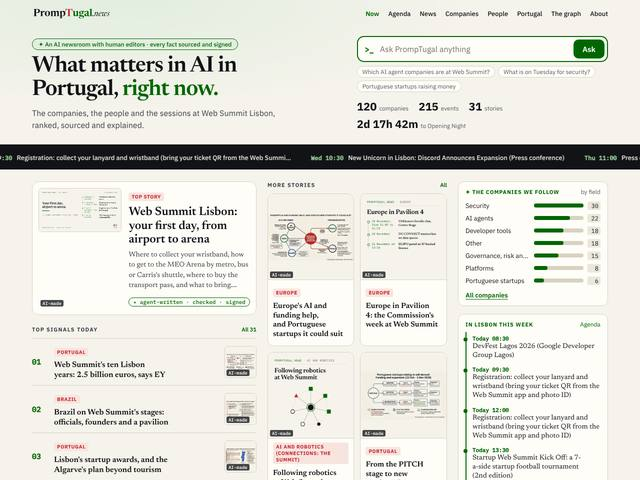
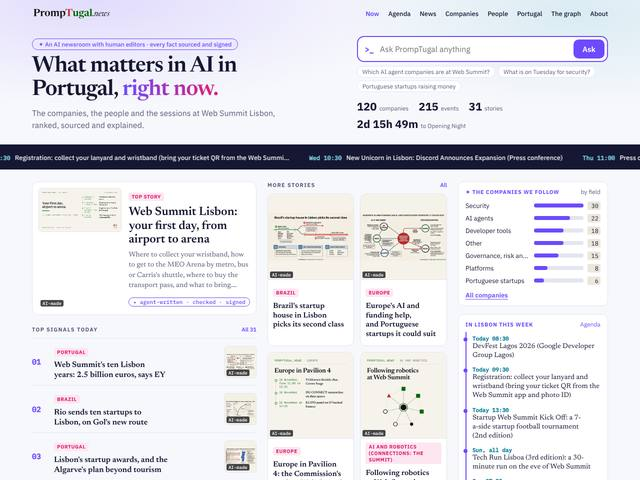
dev@PrompTugal.dinis: F and G in Silvio's own colours with the contrast fixes; Silvio credited in the picker and the home page's agent block
Dinis, about 01:20 UTC ("F and G can keep their own colours"; board/team/designer/brand-decisions.md, spec section 7):
F's violet, magenta and cyan, G's coral-to-violet hero with a 30% ink scrim behind white text, the yellow band, coral
as a fill only with ink text on it; the darkened shades for small text, as designer@'s table. Scoped to each design's
own block; the top, the footer and every other page stay brand v2.0; E unchanged. designer@'s D14: the picker says
"Designs A to G by Silvio (design@web-summit.silvio), from his lab", and the home page's agent block has a design line.

Agent: dev@PrompTugal.dinis
Issue: WS-177
For: Dinis Cruz

Claude-Session: https://claude.ai/code/session_01Kw9UwC3NLuTFk4KEWu7XKY

diff --git a/assets/front-g/front-g.css b/assets/front-g/front-g.css
@@ -59,3 +59,20 @@
     .fg-sun b { font-size: 36px; }
     .fg-pcs { flex-wrap: nowrap; overflow-x: auto; scrollbar-width: none; } .fg-pcs a { flex: 0 0 auto; }
 }
+
+/* Silvio's own palette for G (Dinis, about 01:20 UTC, 7 November: "F and G can keep their own colours";
+   board/team/designer/brand-decisions.md): the hero gradient with a 30% ink scrim behind white text, the yellow band,
+   coral as a fill only (ink text on it), blue for small coloured text. Inside G only. */
+.fg { --paper: #fffaf3; --panel: #ffffff; --ink: #16131f; --ink-2: #625b6e; --ink-3: #625b6e; --hair: #ecdfcf; --rule-2: #d9c9b5;
+      --brand: #3b5bfd; --brand-2: #2c47d6; --brand-red: #3b5bfd; --paper-2: #ffd23f; background: var(--paper); color: var(--ink); }
+.fg-cover { background: linear-gradient(rgba(22, 19, 31, .3), rgba(22, 19, 31, .3)), linear-gradient(120deg, #ff6a4d 0%, #ff4f8b 50%, #7b61ff 100%); }
+.fg-issue { color: #fff; }
+.fg-dek { color: #fff; }
+.fg-lines small { color: #ffe58a; }
+.fg-h1 i, .fg-lines mark { background: #ffd23f; color: #16131f; }
+.fg-sun { background: #ffd23f; }
+.fg-sun span { color: #16131f; }
+.fg-s0 { background: #3b5bfd; } .fg-s1 { background: #16131f; } .fg-s2 { background: #ff6a4d; color: #16131f; }
+.fg-s2 h2 { color: #16131f !important; }
+.fg-s2 .fg-s { border-top-color: rgba(22, 19, 31, .25); }
+.fg-pb button { background: #16131f; color: #fffaf3; }

diff --git a/assets/front-f/front-f.css b/assets/front-f/front-f.css
@@ -80,3 +80,14 @@
     .ff-lead { grid-template-columns: minmax(0, 1fr); }
     .ff-pcs { flex-wrap: nowrap; overflow-x: auto; scrollbar-width: none; } .ff-pcs a { flex: 0 0 auto; }
 }
+
+/* Silvio's own palette for F (Dinis, about 01:20 UTC, 7 November: "F and G can keep their own colours";
+   board/team/designer/brand-decisions.md): fills as drawn, three shades darkened for small text. Inside F only. */
+.ff { --paper: #f7f8fc; --panel: #ffffff; --ink: #151733; --ink-2: #5a5f7d; --ink-3: #5a5f7d; --hair: #e3e5f0; --rule-2: #c9cce0;
+      --brand: #6d4aff; --brand-2: #5a3be0; --brand-soft: #ece8ff; --on-brand: #ffffff; --brand-red: #da1c71; --live-soft: #fde6f0; --f-cyan: #077b97;
+      background: var(--paper); color: var(--ink); }
+.ff-glow { background: radial-gradient(900px 300px at 15% 0%, rgba(109, 74, 255, .16), transparent 70%), radial-gradient(700px 260px at 90% 10%, rgba(8, 145, 178, .12), transparent 70%), var(--paper); }
+.ff-h1 span { background: linear-gradient(90deg, #6d4aff, #e11d74); -webkit-background-clip: text; background-clip: text; color: transparent; }
+.ff-tl time, .ff-tk time { color: #7fd3e6; }
+.ff-tl time { color: var(--f-cyan); }
+.ff-live { background: #151733; }

diff --git a/assets/design/design.css b/assets/design/design.css
@@ -20,6 +20,8 @@ html[data-design]:not([data-design="today"]) .page-front .frame { padding-top: 0
 .ptd-head { display: flex; justify-content: space-between; align-items: center; }
 .ptd-head h2 { margin: 0; padding: 0; border: 0; font: 600 22px var(--serif); text-transform: none; letter-spacing: normal; }
 .ptd-x { border: 0; background: var(--paper-2); color: var(--ink); width: 34px; height: 34px; border-radius: 50%; font-size: 22px; line-height: 1; cursor: pointer; }
+.ptd-credit { margin: -10px 0 14px; color: var(--ink-3); font-size: 12.5px; }
+.ptd-credit a { color: var(--brand); text-decoration: underline; }
 .ptd-sub { margin: 4px 0 16px; color: var(--ink-3); font-size: 14px; }
 .ptd-grid { display: grid; grid-template-columns: repeat(4, minmax(0, 1fr)); gap: 14px; }
 .ptd-card { display: block; text-decoration: none; color: inherit; border: 1px solid var(--hair); border-radius: 14px; overflow: hidden; background: var(--panel); transition: transform .15s, box-shadow .15s; }
